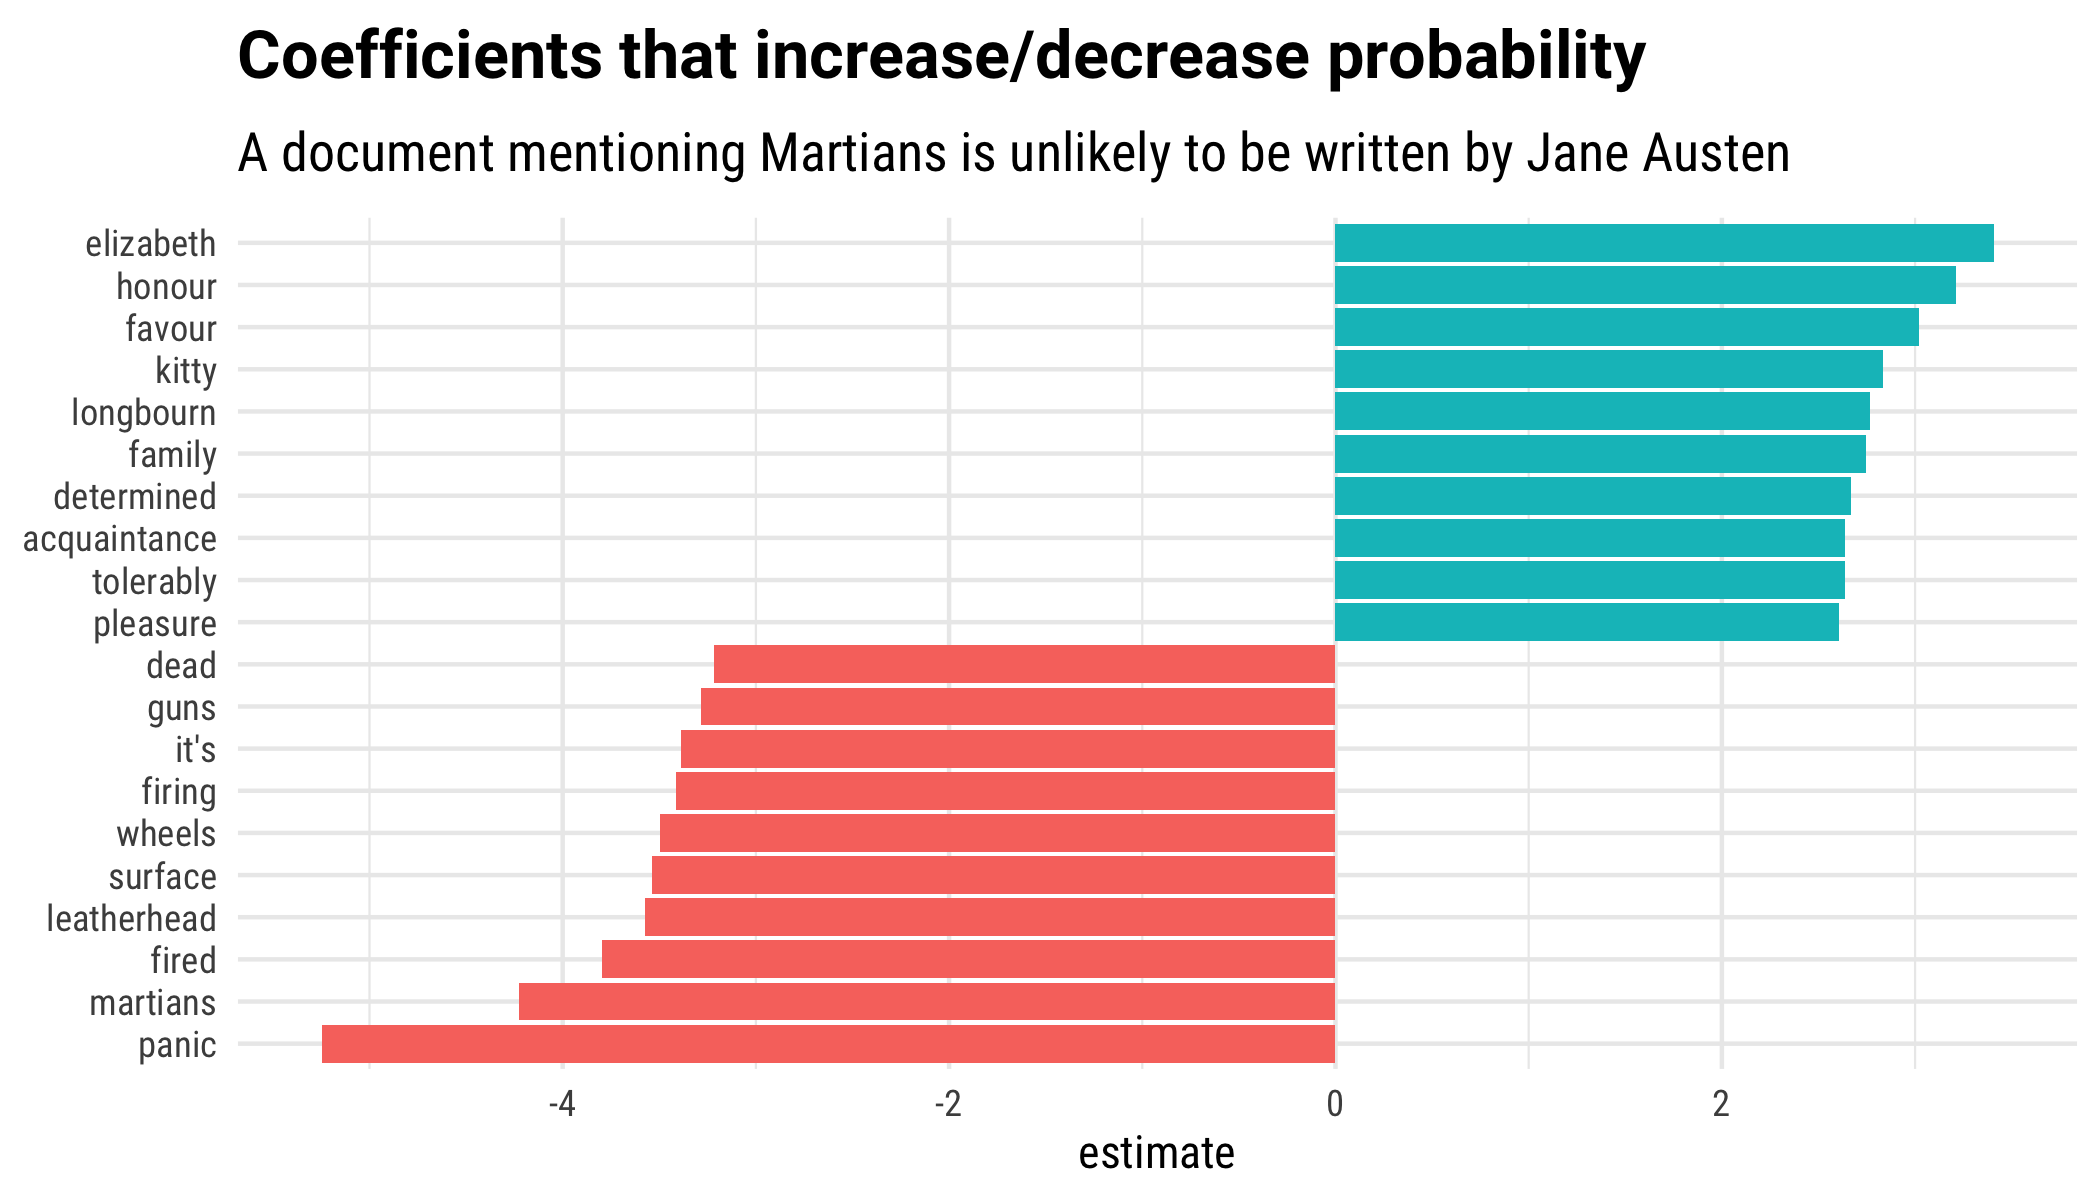
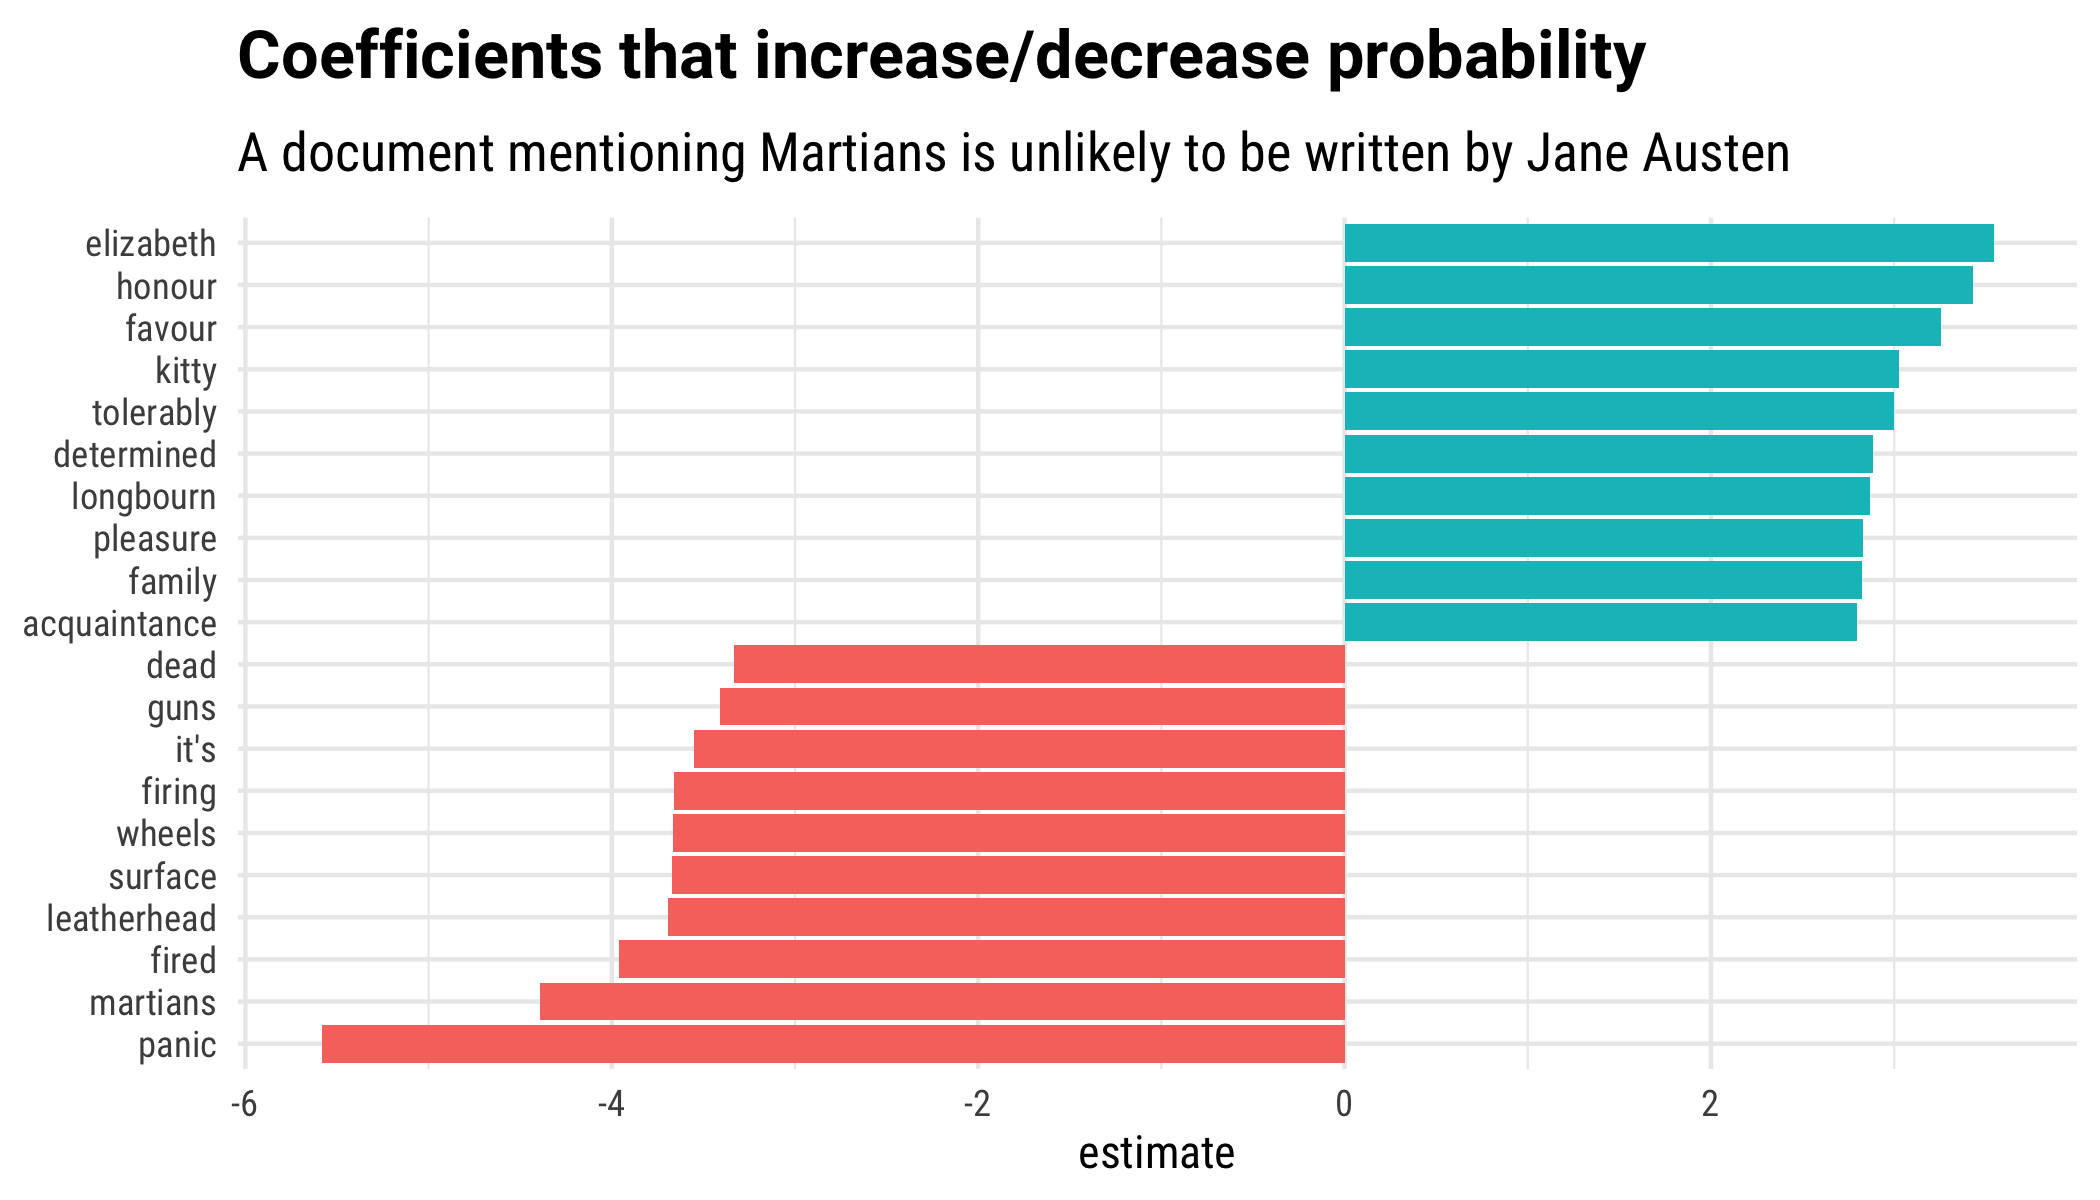
Fix printing width, to be PRETTIER

diff --git a/materials/slides/modeling.html b/materials/slides/modeling.html
@@ -125,7 +125,7 @@ class: center, middle, inverse
 background-image: url(figs/p_and_p_cover.png)
 background-size: cover
 
-# GREAT LIBRARY HEIST 🕵♀
+# GREAT LIBRARY HEIST 🕵♂
 
 ---
 
@@ -188,9 +188,9 @@ glimpse(by_chapter)
 ```
 ## Observations: 51,602
 ## Variables: 3
-## $ gutenberg_id &lt;int&gt; 36, 36, 36, 36, 36, 36, 36, 36, 36, 36, 36, 36, 36, 36, 36, 36, 36, 36, 36, 36, 36, 36, 36, 36, 36, 36, 36, 36, 36, 36, 36, …
-## $ text         &lt;chr&gt; "CHAPTER ONE", "", "THE EVE OF THE WAR", "", "", "No one would have believed in the last years of the nineteenth", "century …
-## $ document     &lt;chr&gt; "The War of the Worlds_1", "The War of the Worlds_1", "The War of the Worlds_1", "The War of the Worlds_1", "The War of the …
+## $ gutenberg_id &lt;int&gt; 36, 36, 36, 36, 36, 36, 36, 36, 36, 36, 36, 36, 36, 36, …
+## $ text         &lt;chr&gt; "CHAPTER ONE", "", "THE EVE OF THE WAR", "", "", "No one…
+## $ document     &lt;chr&gt; "The War of the Worlds_1", "The War of the Worlds_1", "T…
 ```
 
 ---
@@ -613,8 +613,8 @@ class: right, middle
 
 .large[Topic modeling is an example of...]
 
-- .large[supervised machine learning]
-- .large[unsupervised machine learning]
+- .unscramble[supervised machine learning]
+- .unscramble[unsupervised machine learning]
 
 
 ---
@@ -650,10 +650,10 @@ glimpse(books)
 ```
 ## Observations: 19,504
 ## Variables: 4
-## $ gutenberg_id &lt;int&gt; 36, 36, 36, 36, 36, 36, 36, 36, 36, 36, 36, 36, 36, 36, 36, 36, 36, 36, 36, 36, 36, 36, 36, 36, 36, 36, 36, 36, 36, 36, 36, …
-## $ text         &lt;chr&gt; "The War of the Worlds", "", "by H. G. Wells [1898]", "", "", "     But who shall dwell in these worlds if they be", "     i…
-## $ title        &lt;chr&gt; "The War of the Worlds", "The War of the Worlds", "The War of the Worlds", "The War of the Worlds", "The War of the Worlds",…
-## $ document     &lt;int&gt; 1, 2, 3, 4, 5, 6, 7, 8, 9, 10, 11, 12, 13, 14, 15, 16, 17, 18, 19, 20, 21, 22, 23, 24, 25, 26, 27, 28, 29, 30, 31, 32, 33, 3…
+## $ gutenberg_id &lt;int&gt; 36, 36, 36, 36, 36, 36, 36, 36, 36, 36, 36, 36, 36, 36, …
+## $ text         &lt;chr&gt; "The War of the Worlds", "", "by H. G. Wells [1898]", ""…
+## $ title        &lt;chr&gt; "The War of the Worlds", "The War of the Worlds", "The W…
+## $ document     &lt;int&gt; 1, 2, 3, 4, 5, 6, 7, 8, 9, 10, 11, 12, 13, 14, 15, 16, 1…
 ```
 
 ---
@@ -736,7 +736,7 @@ dim(sparse_words)
 ```
 
 ```
-## [1] 15913  1652
+## [1] 15928  1652
 ```
 
 ---
@@ -747,7 +747,7 @@ dim(sparse_words)
 
 .large[Which `dim` of the sparse matrix is the number of features?]
 
-- .large[15913]
+- .large[15928]
 - .large[1652]
 
 .large[Feature = term = word]
@@ -769,7 +769,7 @@ books_joined
 ```
 
 ```
-## # A tibble: 15,913 x 2
+## # A tibble: 15,928 x 2
 ##    document title                
 ##       &lt;int&gt; &lt;chr&gt;                
 ##  1     4532 The War of the Worlds
@@ -782,7 +782,7 @@ books_joined
 ##  8     1487 The War of the Worlds
 ##  9     1639 The War of the Worlds
 ## 10     1698 The War of the Worlds
-## # … with 15,903 more rows
+## # … with 15,918 more rows
 ```
 
 
@@ -865,20 +865,20 @@ classifications
 ```
 
 ```
-## # A tibble: 14,440 x 3
+## # A tibble: 14,483 x 3
 ##    document  score probability
 ##       &lt;int&gt;  &lt;dbl&gt;       &lt;dbl&gt;
-##  1        6  5.72      0.997  
-##  2        7 -1.95      0.152  
-##  3        8 -1.14      0.287  
-##  4        9 -0.510     0.430  
-##  5       15 -5.28      0.00635
-##  6       19  0.371     0.645  
-##  7       21 -2.24      0.117  
-##  8       24 -0.533     0.424  
-##  9       25 -4.37      0.0156 
-## 10       26 -0.483     0.437  
-## # … with 14,430 more rows
+##  1        1 -4.56      0.0121 
+##  2        6  1.87      0.884  
+##  3        7 -0.953     0.311  
+##  4        8 -2.31      0.104  
+##  5        9 -0.492     0.416  
+##  6       13 -0.223     0.483  
+##  7       15 -5.42      0.00512
+##  8       21 -4.56      0.0121 
+##  9       24 -0.639     0.381  
+## 10       25 -4.39      0.0142 
+## # … with 14,473 more rows
 ```
 
 ---
@@ -966,20 +966,20 @@ comment_classes
 ```
 
 ```
-## # A tibble: 14,440 x 4
+## # A tibble: 14,483 x 4
 ##    document  score probability title                
 ##       &lt;int&gt;  &lt;dbl&gt;       &lt;dbl&gt; &lt;fct&gt;                
-##  1        6  5.72      0.997   The War of the Worlds
-##  2        7 -1.95      0.152   The War of the Worlds
-##  3        8 -1.14      0.287   The War of the Worlds
-##  4        9 -0.510     0.430   The War of the Worlds
-##  5       15 -5.28      0.00635 The War of the Worlds
-##  6       19  0.371     0.645   The War of the Worlds
-##  7       21 -2.24      0.117   The War of the Worlds
-##  8       24 -0.533     0.424   The War of the Worlds
-##  9       25 -4.37      0.0156  The War of the Worlds
-## 10       26 -0.483     0.437   The War of the Worlds
-## # … with 14,430 more rows
+##  1        1 -4.56      0.0121  The War of the Worlds
+##  2        6  1.87      0.884   The War of the Worlds
+##  3        7 -0.953     0.311   The War of the Worlds
+##  4        8 -2.31      0.104   The War of the Worlds
+##  5        9 -0.492     0.416   The War of the Worlds
+##  6       13 -0.223     0.483   The War of the Worlds
+##  7       15 -5.42      0.00512 The War of the Worlds
+##  8       21 -4.56      0.0121  The War of the Worlds
+##  9       24 -0.639     0.381   The War of the Worlds
+## 10       25 -4.39      0.0142  The War of the Worlds
+## # … with 14,473 more rows
 ```
 
 ---
@@ -1022,7 +1022,7 @@ comment_classes %&gt;%
 ## # A tibble: 1 x 3
 ##   .metric .estimator .estimate
 ##   &lt;chr&gt;   &lt;chr&gt;          &lt;dbl&gt;
-## 1 roc_auc binary         0.989
+## 1 roc_auc binary         0.990
 ```
 
 ---
@@ -1056,8 +1056,8 @@ comment_classes %&gt;%
 ```
 ##                        Truth
 ## Prediction              Pride and Prejudice The War of the Worlds
-##   Pride and Prejudice                  9368                   358
-##   The War of the Worlds                 259                  4455
+##   Pride and Prejudice                  9430                   335
+##   The War of the Worlds                 249                  4469
 ```
 
 ---
@@ -1081,18 +1081,18 @@ comment_classes %&gt;%
 
 ```
 ## # A tibble: 10 x 2
-##    probability text                                                                    
-##          &lt;dbl&gt; &lt;chr&gt;                                                                   
-##  1       0.884 "gunners, unseasoned artillery volunteers who ought never to have been" 
-##  2       0.863 "about two.  He was now very anxious on my account, and disturbed at"   
-##  3       0.824 "\"Take this!\" said the slender lady, and she gave my brother her"     
-##  4       0.998 "\"Be a man!\" said I.  \"You are scared out of your wits!  What good"  
-##  5       1.00  "to Brigadier-General Marvin, and tell him all you know.  He's at"      
-##  6       0.867 "Huns, the hugest armies Asia has ever seen, would have been but a drop"
-##  7       1.00  "from her, of all that might happen to her in my absence.  My cousin I" 
-##  8       0.997 "He relapsed into silence, with his chin now sunken almost to his"      
-##  9       0.863 "There were times when I beat and kicked him madly, times when I"       
-## 10       1.00  "am convinced--as firmly as I am convinced of anything--that the"
+##    probability text                                                             
+##          &lt;dbl&gt; &lt;chr&gt;                                                            
+##  1       0.815 "He relapsed into silence, with his chin now sunken almost to hi…
+##  2       1.00  "settlement.  Be that as it may, for many years yet there will"  
+##  3       0.991 "been out of England before, she would rather die than trust her…
+##  4       0.984 "Perhaps I am a man of exceptional moods.  I do not know how far…
+##  5       0.991 "\"Take this!\" said the slender lady, and she gave my brother h…
+##  6       0.909 "entire battalion of the Cardigan Regiment.  No details are know…
+##  7       0.902 "so; there won't be any Royal Academy of Arts, and no nice littl…
+##  8       0.879 "they were destroying Berlin or Paris, or it might be they had g…
+##  9       0.849 "horizon--\"they're starving in heaps, bolting, treading on each…
+## 10       1.00  "\"Be a man!\" said I.  \"You are scared out of your wits!  What…
 ```
 
 ---
@@ -1116,18 +1116,18 @@ comment_classes %&gt;%
 
 ```
 ## # A tibble: 10 x 2
-##    probability text                                                                  
-##          &lt;dbl&gt; &lt;chr&gt;                                                                 
-##  1   0.194     enter the paddock and ride towards the house.                         
-##  2   0.0508    of fancy, the streets of that gay bathing-place covered with officers.
-##  3   0.192     glancing over it, said, in a colder voice:                            
-##  4   0.231     walking slowly towards the house.                                     
-##  5   0.144     The wisest and the best of men--nay, the wisest and best of their     
-##  6   0.256     Sally to mend a great slit in my worked muslin gown before they are   
-##  7   0.0000741 road, the house standing in it, the green pales, and the laurel hedge,
-##  8   0.261     into the house and take some refreshment; but this was declined, and  
-##  9   0.269     are instituted by the Church of England. As a clergyman, moreover, I  
-## 10   0.278     presently answered the question in a tolerably detached tone. While
+##    probability text                                                             
+##          &lt;dbl&gt; &lt;chr&gt;                                                            
+##  1    0.0140   "foxhounds, and drink a bottle of wine a day.\""                 
+##  2    0.0652   "As we went along, Kitty and I drew up the blinds, and pretended…
+##  3    0.00281  "blush. He absolutely started, and for a moment seemed immovable…
+##  4    0.0313   "wrong; he had liberality, and he had the means of exercising it…
+##  5    0.000432 "me, I did not once put my foot out of doors, though I was there…
+##  6    0.0380   "I was never more annoyed! The insipidity, and yet the noise--th…
+##  7    0.224    "suddenly came forward from the road, which led behind it to the…
+##  8    0.0196   "\"Oh, lord! I don't know. Not these two or three years, perhaps…
+##  9    0.110    "the improvements it was receiving, he was happily employed unti…
+## 10    0.171    "of fancy, the streets of that gay bathing-place covered with of…
 ```
 
 ---

diff --git a/materials/slides/intro.html b/materials/slides/intro.html
@@ -143,11 +143,14 @@ text &lt;- c("Because I could not stop for Death -",
           "The Carriage held but just Ourselves -",
           "and Immortality")
 
-glimpse(text)
+text
 ```
 
 ```
-##  chr [1:4] "Because I could not stop for Death -" "He kindly stopped for me -" "The Carriage held but just Ourselves -" "and Immortality"
+## [1] "Because I could not stop for Death -"  
+## [2] "He kindly stopped for me -"            
+## [3] "The Carriage held but just Ourselves -"
+## [4] "and Immortality"
 ```
 
 ---
@@ -242,7 +245,7 @@ library(gutenbergr)
 full_text &lt;- gutenberg_download(1342)
 ```
 
-.large[What book do *you* want to analyze today? 📖 👯♀ 📖]
+.large[What book do *you* want to analyze today? 📖 👯 📖]
 
 ---
 
@@ -977,7 +980,7 @@ tidy_ngram %&gt;%
 .large[Can we use an `anti_join()` right away to remove stop words?]
 
 - .large[Yes! ✅]
-- .large[No 🙍]
+- .large[No 😿]
 
 ---
 
@@ -1079,17 +1082,17 @@ bigram_graph
 ```
 
 ```
-## IGRAPH f82f914 DN-- 48 45 -- 
+## IGRAPH 72e7171 DN-- 48 45 -- 
 ## + attr: name (v/c), n (e/n)
-## + edges from f82f914 (vertex names):
-##  [1] lady       -&gt;catherine   miss       -&gt;bingley     miss       -&gt;bennet      sir        -&gt;william     de         -&gt;bourgh     
-##  [6] miss       -&gt;darcy       colonel    -&gt;forster     colonel    -&gt;fitzwilliam cried      -&gt;elizabeth   miss       -&gt;lucas      
-## [11] miss       -&gt;de          thousand   -&gt;pounds      lady       -&gt;lucas       replied    -&gt;elizabeth   lady       -&gt;catherine's
-## [16] dear       -&gt;lizzy       miss       -&gt;bingley's   catherine  -&gt;de          miss       -&gt;elizabeth   ten        -&gt;thousand   
-## [21] dear       -&gt;sir         gracechurch-&gt;street      miss       -&gt;eliza       charlotte  -&gt;lucas       dear       -&gt;aunt       
-## [26] dear       -&gt;jane        elizabeth  -&gt;bennet      elizabeth  -&gt;looked      george     -&gt;wickham     miss       -&gt;bennets    
-## [31] replied    -&gt;jane        william    -&gt;lucas       dear       -&gt;dear        dear       -&gt;lydia       dear       -&gt;miss       
-## [36] dear       -&gt;sister      dearest    -&gt;lizzy       elizabeth's-&gt;mind        half       -&gt;hour        longbourn  -&gt;family     
+## + edges from 72e7171 (vertex names):
+##  [1] lady       -&gt;catherine   miss       -&gt;bingley     miss       -&gt;bennet     
+##  [4] sir        -&gt;william     de         -&gt;bourgh      miss       -&gt;darcy      
+##  [7] colonel    -&gt;forster     colonel    -&gt;fitzwilliam cried      -&gt;elizabeth  
+## [10] miss       -&gt;lucas       miss       -&gt;de          thousand   -&gt;pounds     
+## [13] lady       -&gt;lucas       replied    -&gt;elizabeth   lady       -&gt;catherine's
+## [16] dear       -&gt;lizzy       miss       -&gt;bingley's   catherine  -&gt;de         
+## [19] miss       -&gt;elizabeth   ten        -&gt;thousand    dear       -&gt;sir        
+## [22] gracechurch-&gt;street      miss       -&gt;eliza       charlotte  -&gt;lucas      
 ## + ... omitted several edges
 ```
 
